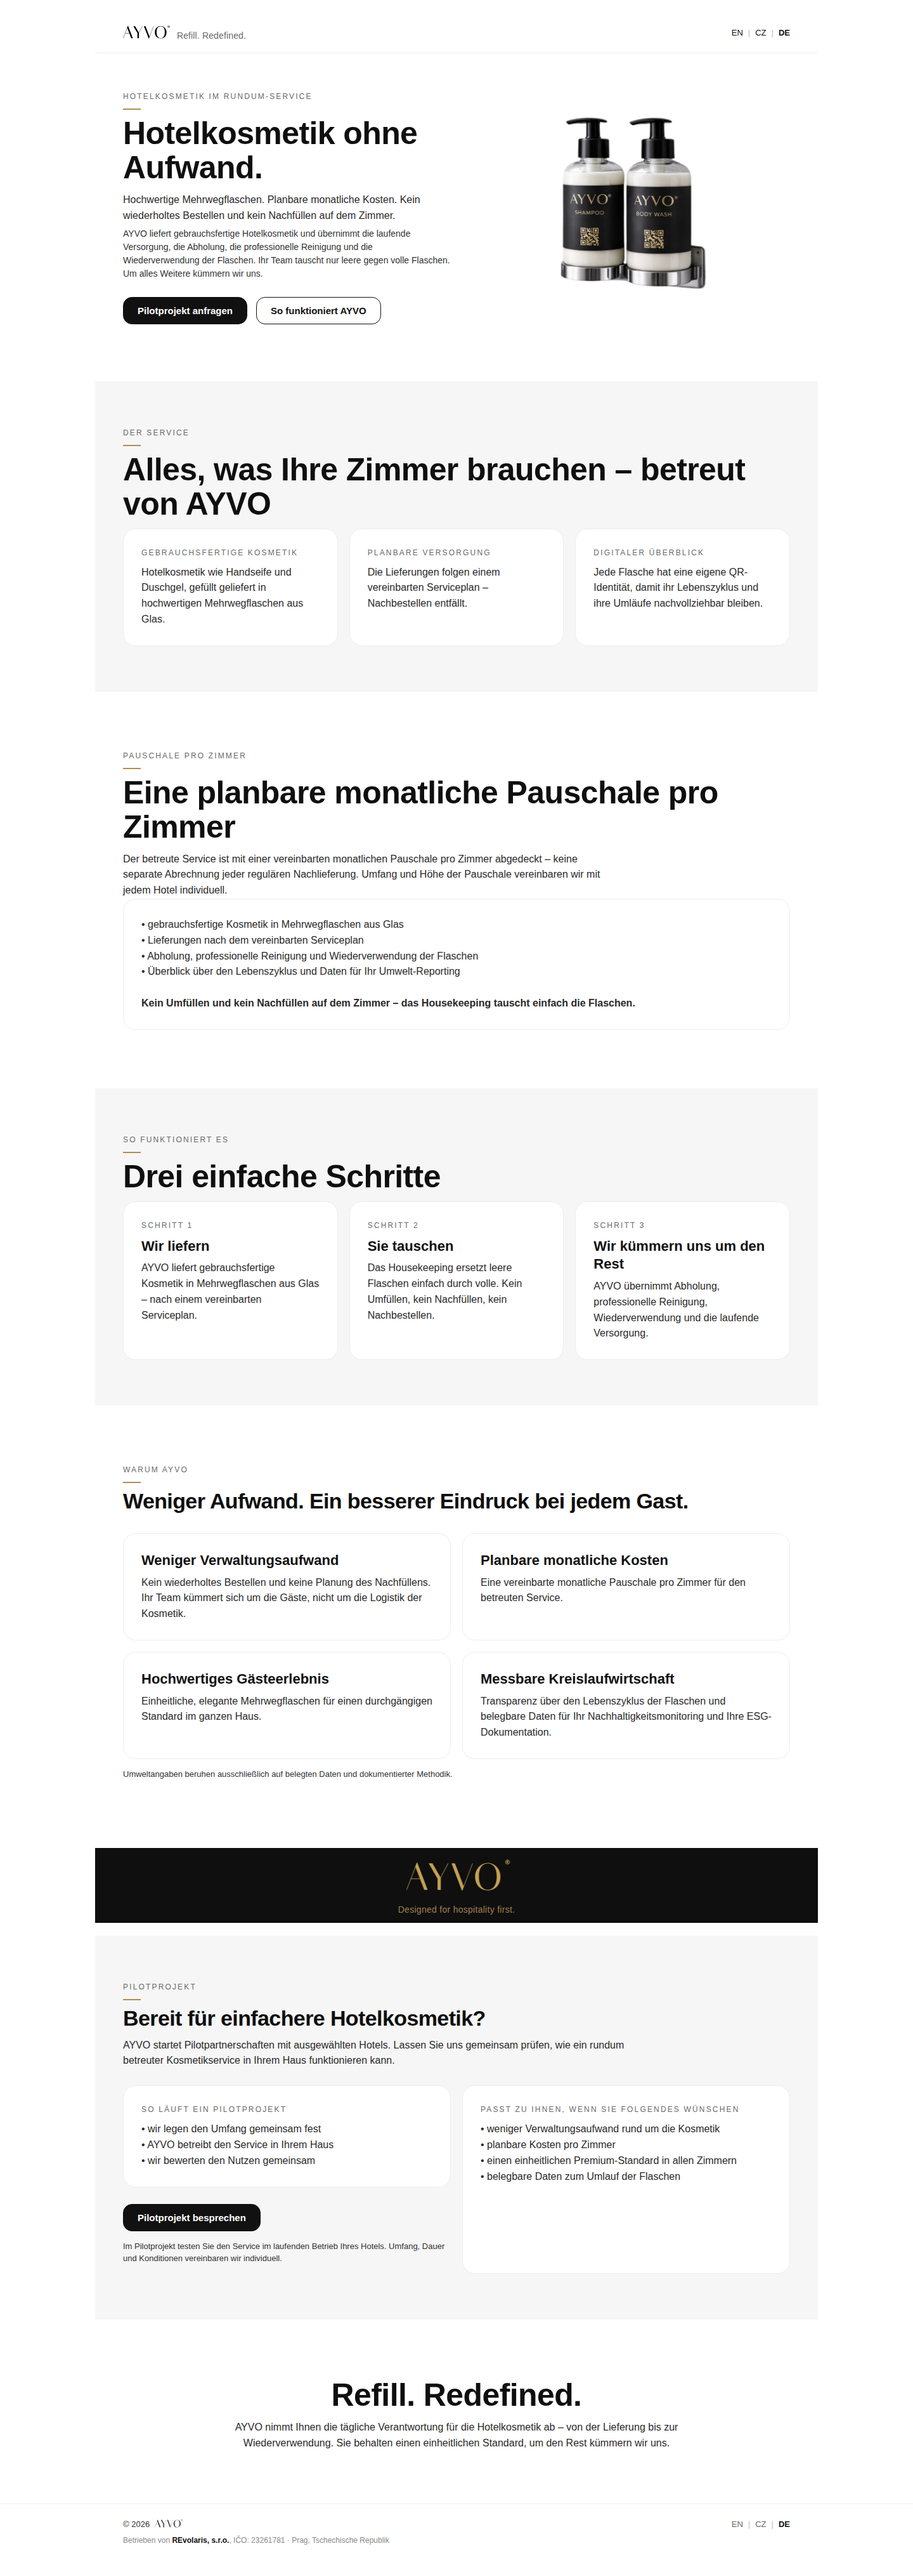
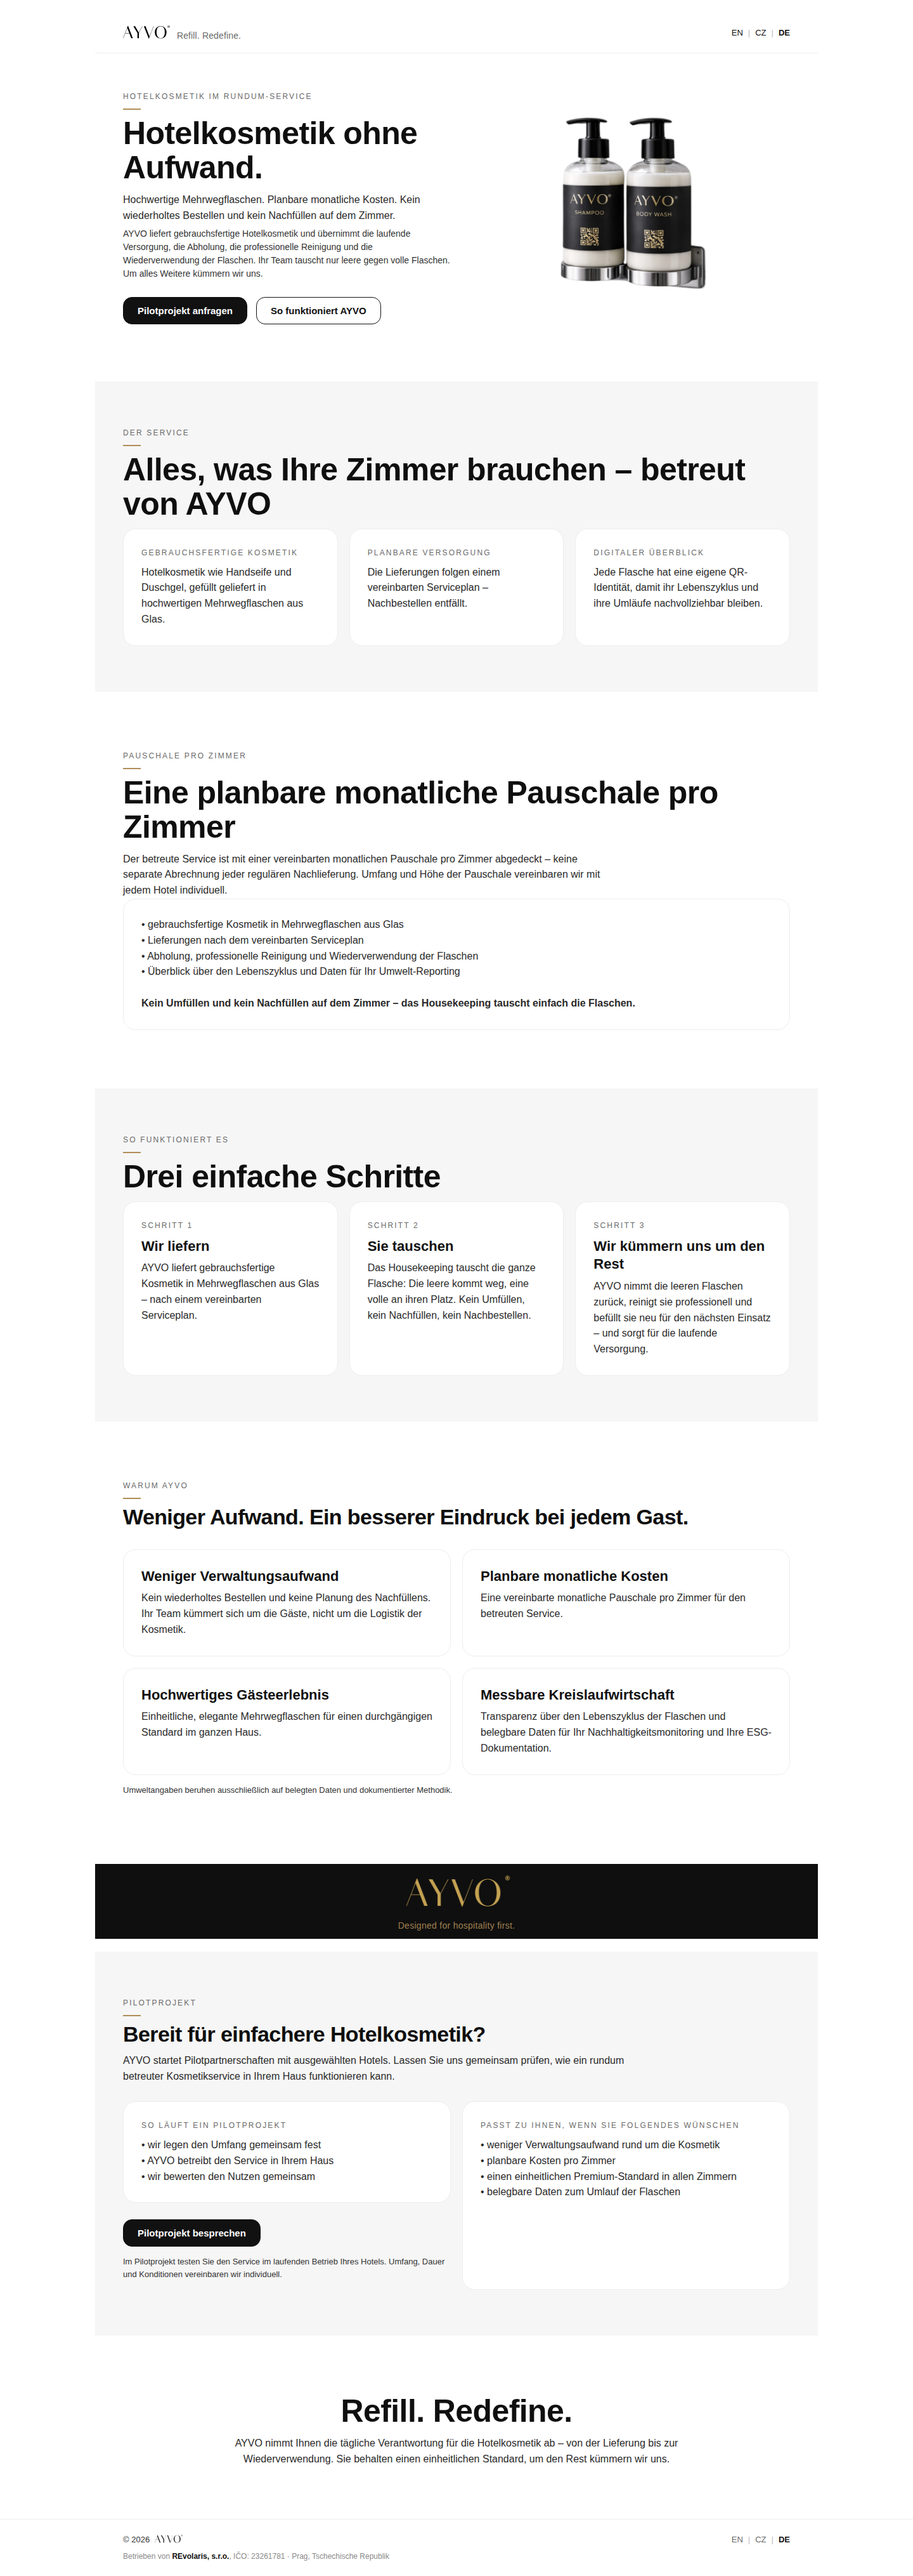
feat(marketing): slogan "Refill. Redefine." and a clearer bottle swap in How it works
Content only (EN/CZ/DE), same layout, typography, colours, photos and blocks.

- Slogan unified to "Refill. Redefine." in the header, the closing section and the 404 page.
- How it works, step 2: housekeeping swaps the whole bottle (the empty one out, a full one in).
- Step 3: AYVO takes back the empty bottles, cleans them professionally and refills them,
  plus ongoing replenishment.
- The static test follows the slogan (header + closing section, no "Redefined"). Screenshots
  refreshed by the e2e run.

diff --git a/apps/marketing/site/de/index.html b/apps/marketing/site/de/index.html
@@ -41,7 +41,7 @@
             width="3386"
             height="985"
           />
-          <span class="ayvo-tagline">Refill. Redefined.</span>
+          <span class="ayvo-tagline">Refill. Redefine.</span>
         </a>
         <nav class="ayvo-langs" aria-label="Sprache">
           <a href="/" hreflang="en" lang="en" class="ayvo-lang" data-lang>EN</a
@@ -167,8 +167,8 @@
               <div class="ayvo-kicker">Schritt 2</div>
               <h3 class="ayvo-h2">Sie tauschen</h3>
               <p class="ayvo-p ayvo-muted">
-                Das Housekeeping ersetzt leere Flaschen einfach durch volle. Kein Umfüllen, kein
-                Nachfüllen, kein Nachbestellen.
+                Das Housekeeping tauscht die ganze Flasche: Die leere kommt weg, eine volle an ihren
+                Platz. Kein Umfüllen, kein Nachfüllen, kein Nachbestellen.
               </p>
             </div>
 
@@ -176,8 +176,8 @@
               <div class="ayvo-kicker">Schritt 3</div>
               <h3 class="ayvo-h2">Wir kümmern uns um den Rest</h3>
               <p class="ayvo-p ayvo-muted">
-                AYVO übernimmt Abholung, professionelle Reinigung, Wiederverwendung und die laufende
-                Versorgung.
+                AYVO nimmt die leeren Flaschen zurück, reinigt sie professionell und befüllt sie neu
+                für den nächsten Einsatz – und sorgt für die laufende Versorgung.
               </p>
             </div>
           </div>
@@ -292,7 +292,7 @@
       </section>
       <section id="standard" class="ayvo-section">
         <div class="ayvo-center ayvo-max760 ayvo-wrap">
-          <h2 class="ayvo-h1">Refill. Redefined.</h2>
+          <h2 class="ayvo-h1">Refill. Redefine.</h2>
           <p class="ayvo-p ayvo-muted">
             AYVO nimmt Ihnen die tägliche Verantwortung für die Hotelkosmetik ab – von der Lieferung
             bis zur Wiederverwendung. Sie behalten einen einheitlichen Standard, um den Rest kümmern

diff --git a/apps/marketing/site/cz/index.html b/apps/marketing/site/cz/index.html
@@ -41,7 +41,7 @@
             width="3386"
             height="985"
           />
-          <span class="ayvo-tagline">Refill. Redefined.</span>
+          <span class="ayvo-tagline">Refill. Redefine.</span>
         </a>
         <nav class="ayvo-langs" aria-label="Jazyk">
           <a href="/" hreflang="en" lang="en" class="ayvo-lang" data-lang>EN</a
@@ -165,8 +165,8 @@
               <div class="ayvo-kicker">Krok 2</div>
               <h3 class="ayvo-h2">Vyměníte</h3>
               <p class="ayvo-p ayvo-muted">
-                Housekeeping jen nahradí prázdné lahve plnými. Žádné přelévání, doplňování ani
-                opakované objednávání.
+                Personál vymění celou lahev: prázdnou odebere, plnou postaví na její místo. Žádné
+                přelévání, doplňování ani opakované objednávání.
               </p>
             </div>
 
@@ -174,7 +174,8 @@
               <div class="ayvo-kicker">Krok 3</div>
               <h3 class="ayvo-h2">O zbytek se postaráme</h3>
               <p class="ayvo-p ayvo-muted">
-                AYVO zajistí svoz, profesionální čištění, opětovné použití a průběžné zásobování.
+                AYVO převezme prázdné lahve, profesionálně je umyje a znovu naplní pro další
+                použití. Zároveň zajistí průběžné zásobování.
               </p>
             </div>
           </div>
@@ -288,7 +289,7 @@
       </section>
       <section id="standard" class="ayvo-section">
         <div class="ayvo-center ayvo-max760 ayvo-wrap">
-          <h2 class="ayvo-h1">Refill. Redefined.</h2>
+          <h2 class="ayvo-h1">Refill. Redefine.</h2>
           <p class="ayvo-p ayvo-muted">
             AYVO vám sejme každodenní starost o hotelovou kosmetiku — od dodání až po opětovné
             použití. Vy máte jednotný standard, o zbytek se postaráme my.

diff --git a/apps/marketing/site/index.html b/apps/marketing/site/index.html
@@ -41,7 +41,7 @@
             width="3386"
             height="985"
           />
-          <span class="ayvo-tagline">Refill. Redefined.</span>
+          <span class="ayvo-tagline">Refill. Redefine.</span>
         </a>
         <nav class="ayvo-langs" aria-label="Language">
           <a href="/" hreflang="en" lang="en" class="ayvo-lang" data-lang aria-current="page">EN</a
@@ -165,8 +165,8 @@
               <div class="ayvo-kicker">Step 2</div>
               <h3 class="ayvo-h2">You swap</h3>
               <p class="ayvo-p ayvo-muted">
-                Housekeeping simply replaces empty bottles with full ones. No pouring, refilling or
-                repeat ordering.
+                Housekeeping swaps the whole bottle: the empty one goes out, a full one goes in. No
+                pouring, refilling or repeat ordering.
               </p>
             </div>
 
@@ -174,7 +174,8 @@
               <div class="ayvo-kicker">Step 3</div>
               <h3 class="ayvo-h2">We handle the rest</h3>
               <p class="ayvo-p ayvo-muted">
-                AYVO manages collection, professional cleaning, reuse and ongoing replenishment.
+                AYVO takes back the empty bottles, cleans them professionally and refills them for
+                the next round, along with ongoing replenishment.
               </p>
             </div>
           </div>
@@ -288,7 +289,7 @@
       </section>
       <section id="standard" class="ayvo-section">
         <div class="ayvo-center ayvo-max760 ayvo-wrap">
-          <h2 class="ayvo-h1">Refill. Redefined.</h2>
+          <h2 class="ayvo-h1">Refill. Redefine.</h2>
           <p class="ayvo-p ayvo-muted">
             AYVO takes the day-to-day responsibility for your hotel amenities off your hands — from
             delivery to reuse. You keep a consistent standard; we handle the rest.

diff --git a/apps/marketing/site/404.html b/apps/marketing/site/404.html
@@ -19,7 +19,7 @@
             width="3386"
             height="985"
           />
-          <span class="ayvo-tagline">Refill. Redefined.</span>
+          <span class="ayvo-tagline">Refill. Redefine.</span>
         </a>
       </div>
     </header>
